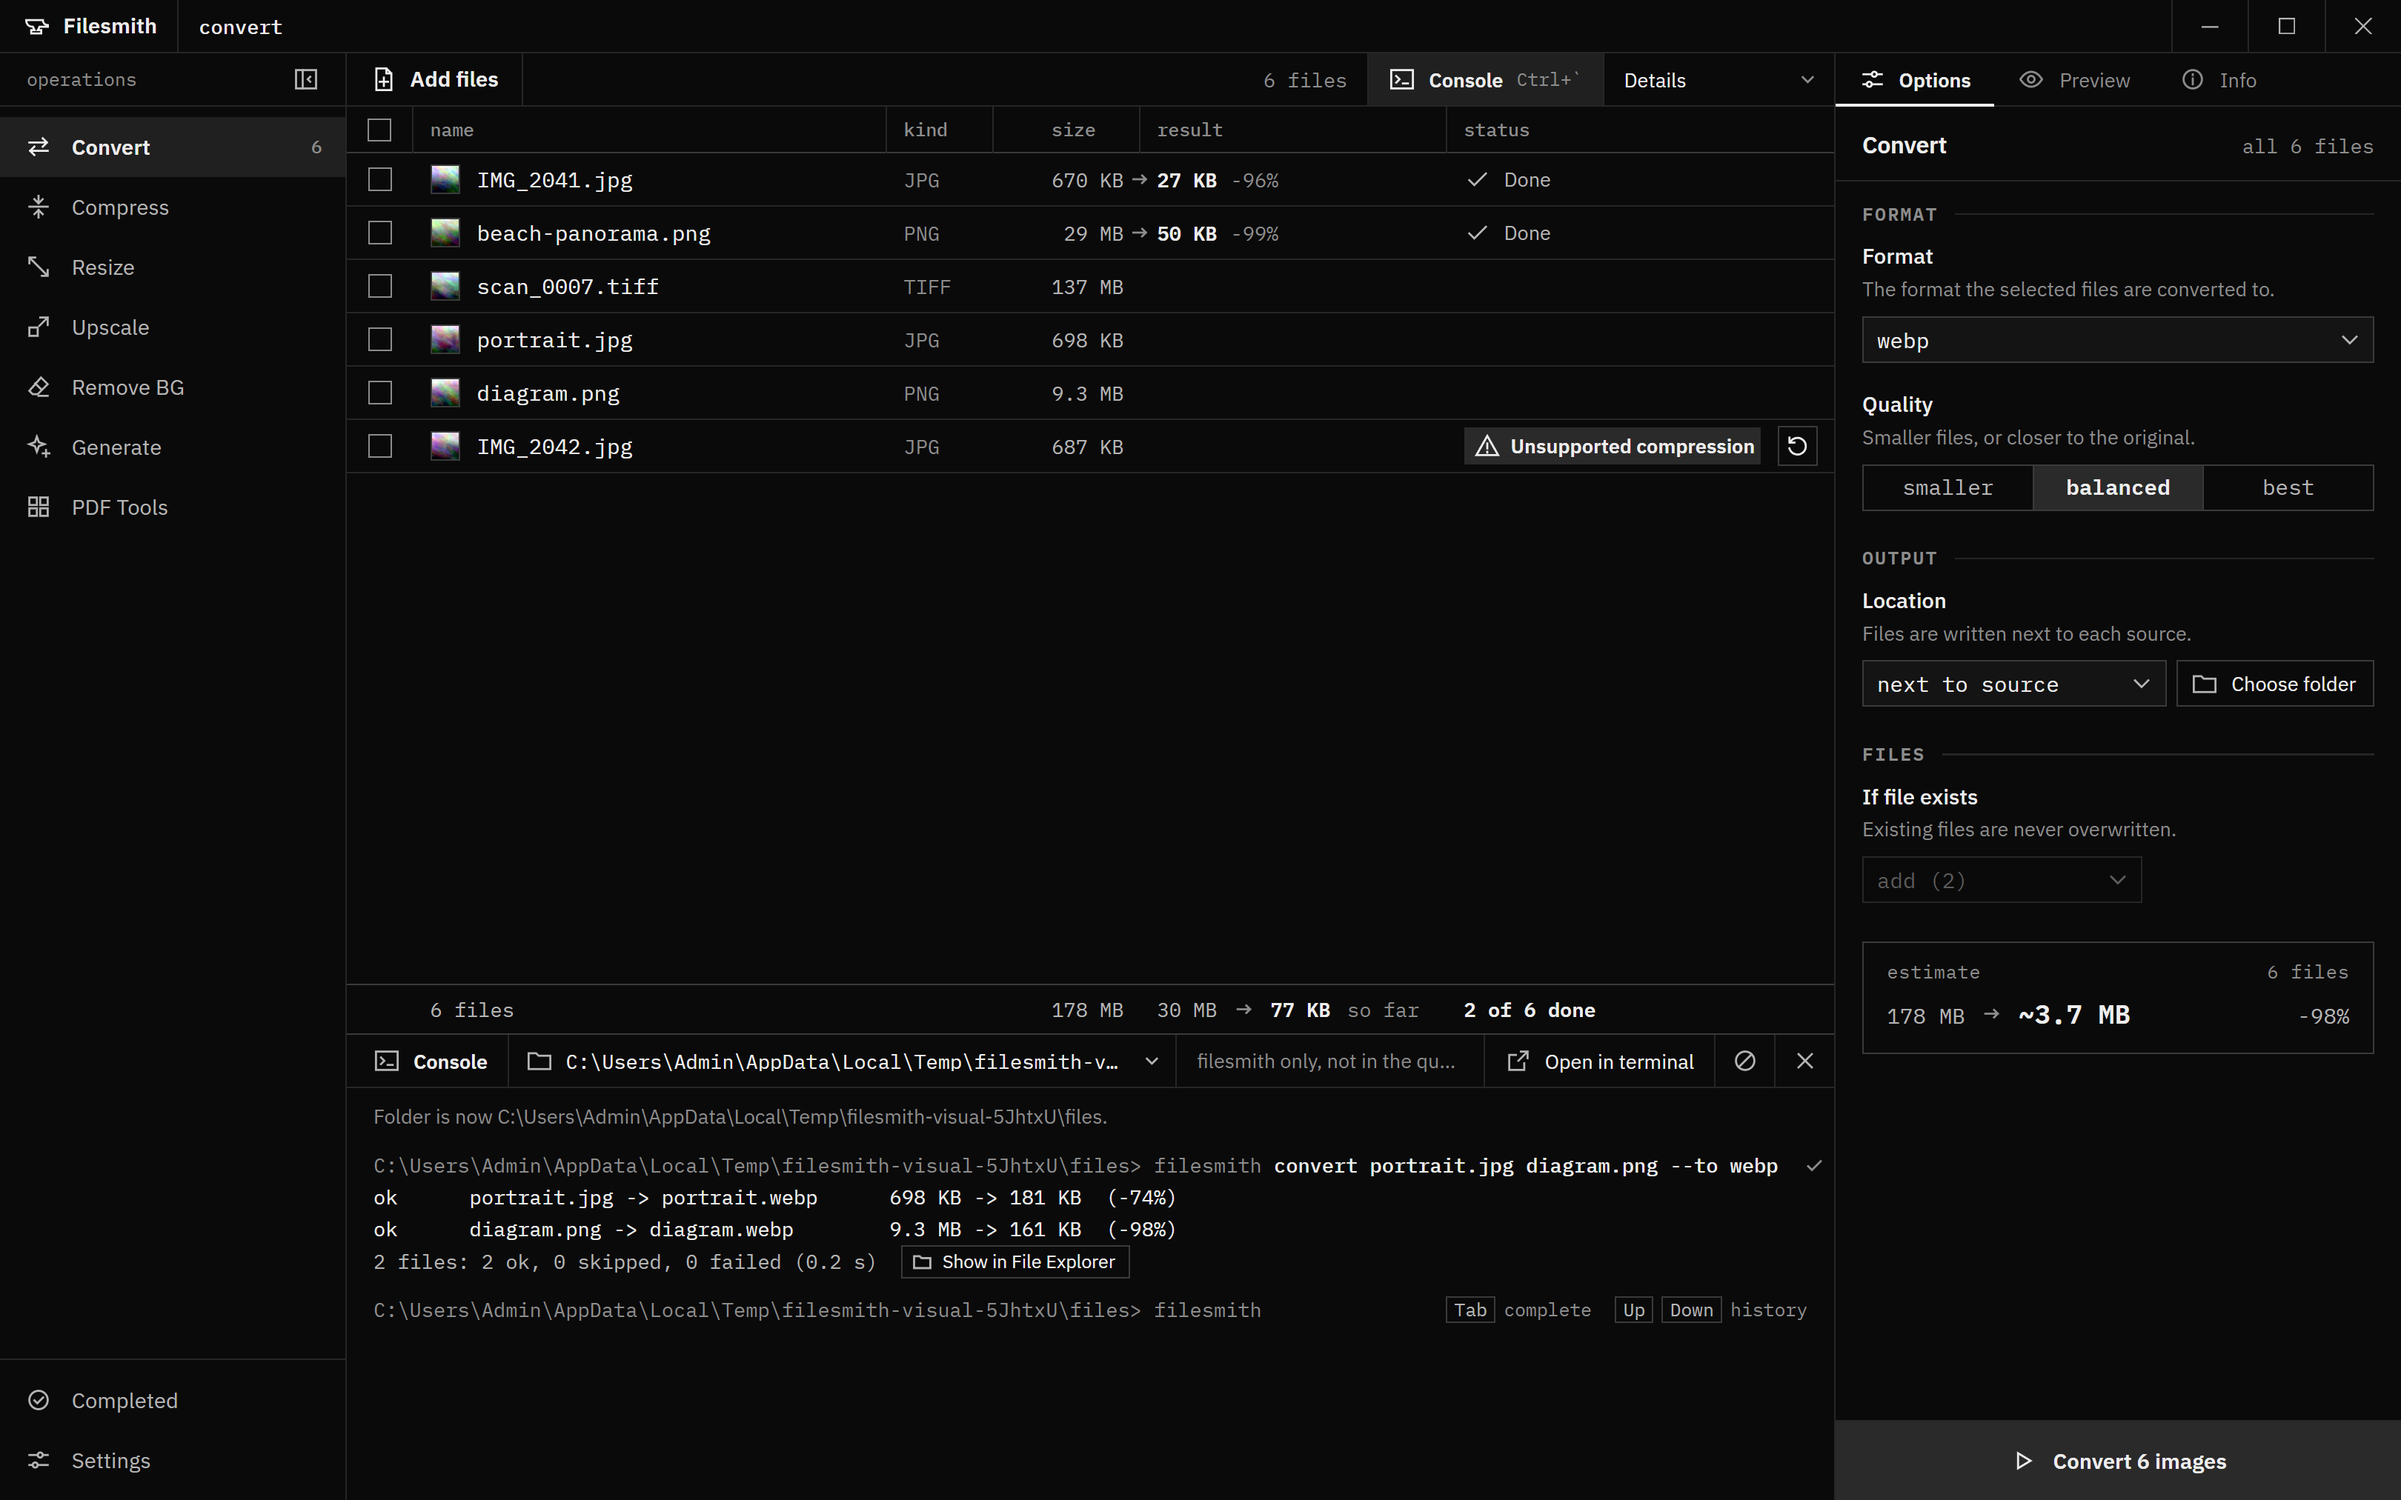
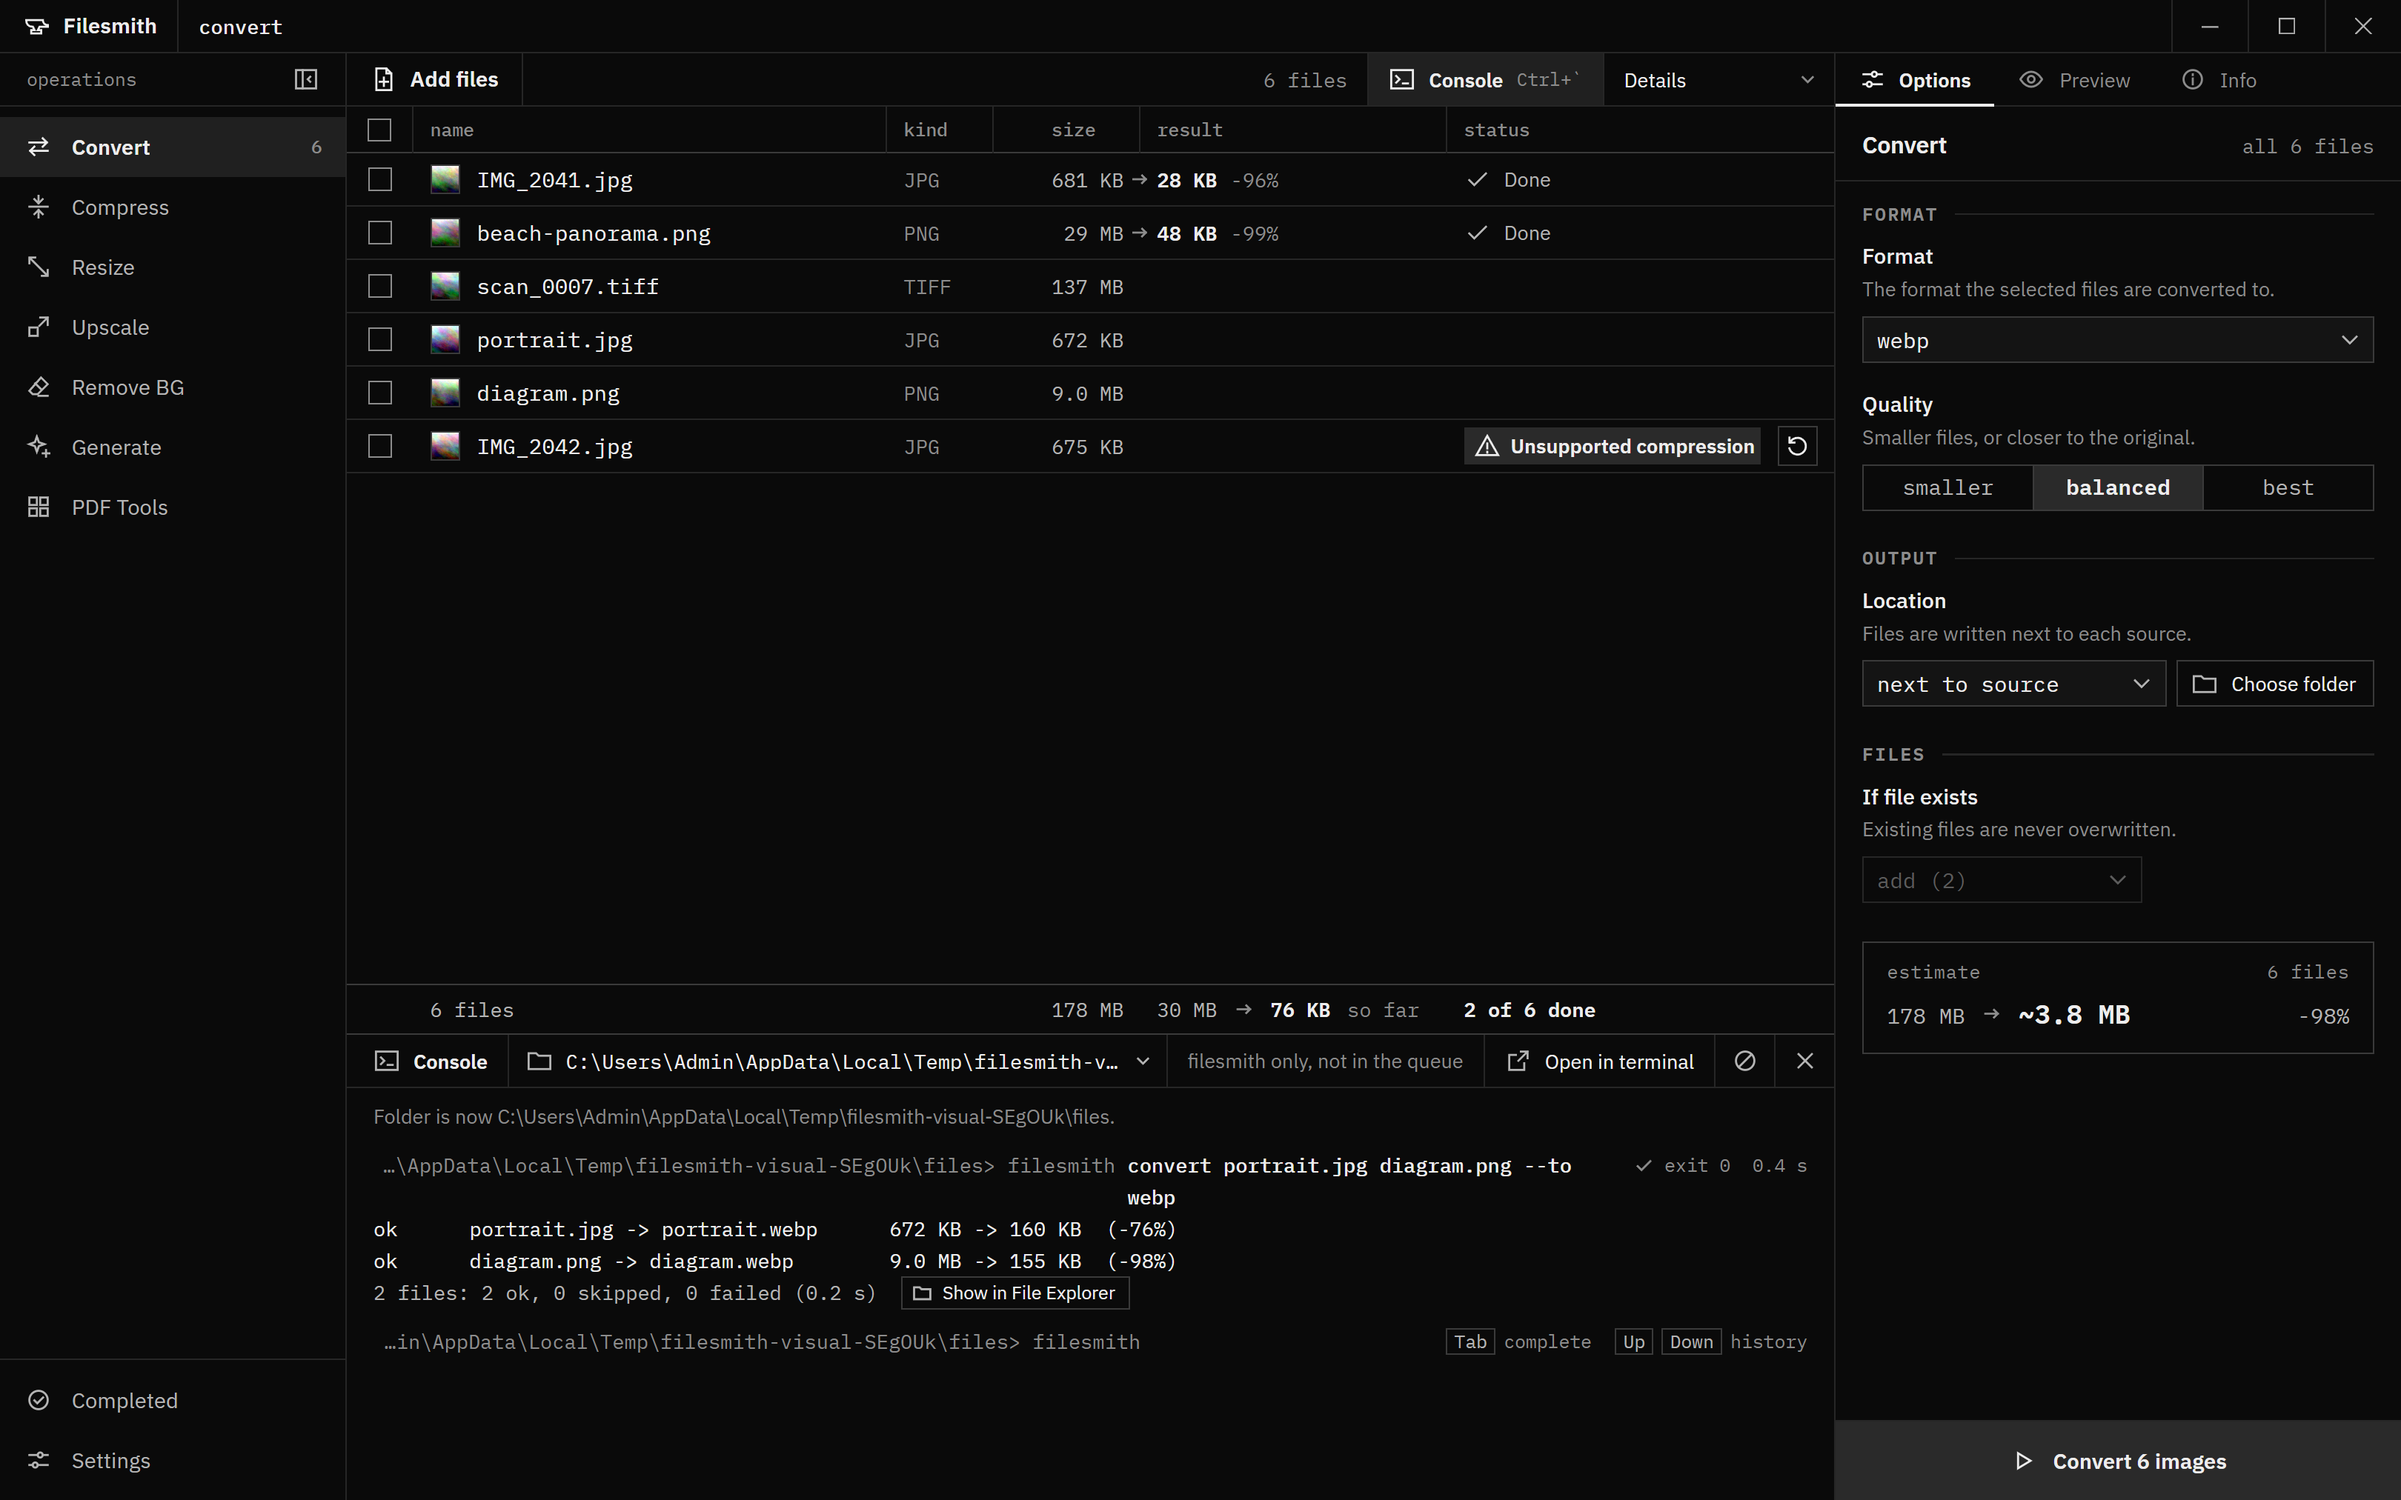
fix(console): the echo line keeps its status inside the panel
The echo line's folder is clipped at its start like the prompt's, a long
command wraps and the exit or running status never leaves the panel. Long
output lines wrap too. The running footer keeps the Tab and Up/Down hints,
and the head folder gives way before the "filesmith only" note, as in the
running mockup. The space after the prompt's ">" is no longer dropped.
e2e: a run from a long folder keeps its status inside the panel; the
running footer shows the key hints and the head note reads in full.

Refs #39

diff --git a/e2e/console.spec.ts b/e2e/console.spec.ts
@@ -179,6 +179,16 @@ test('Stop cancels a running convert with exit 130', async () => {
   await type('convert b*.png --to avif --quality best')
   const stop = panel().getByRole('button', { name: /^Stop/ })
   await expect(stop).toBeVisible()
+  // The running footer keeps its key hints and the head note reads in full (mockup 01 running).
+  await expect(panel().locator('.pline .keys')).toBeVisible()
+  const note = panel().locator('.chead .note')
+  const fits = await note.evaluate((el) => {
+    const r = document.createRange()
+    r.selectNodeContents(el)
+    const pad = parseFloat(getComputedStyle(el).paddingLeft) * 2
+    return r.getBoundingClientRect().width <= el.getBoundingClientRect().width - pad + 0.01
+  })
+  expect(fits).toBe(true)
   await stop.click()
   await expect(panel().getByText('exit 130', { exact: false })).toBeVisible({ timeout: 15_000 })
   await expect(stop).toBeHidden()
@@ -198,6 +208,21 @@ test('a long folder never pushes the prompt out of the panel', async () => {
   const box = (await panel().boundingBox())!
   expect(pin.width).toBeGreaterThanOrEqual(160)
   expect(pin.x + pin.width).toBeLessThanOrEqual(box.x + box.width)
+
+  // The echo line of a run from that folder keeps its exit status inside the panel
+  // (the path may pass MAX_PATH for the tools, so any exit code will do).
+  const long = `${'a-long-image-name-'.repeat(4)}.png`
+  copyFileSync(join(work, 'a.png'), join(deep, long))
+  await type(`convert ${long} --to webp --quality balanced`)
+  const echo = panel().locator('.ln.cmd').last()
+  await expect(echo.locator('.dec')).toContainText(/exit \d/, { timeout: 30_000 })
+  const dec = (await echo.locator('.dec').boundingBox())!
+  const body = (await panel().locator('.cbody').boundingBox())!
+  expect(dec.width).toBeGreaterThan(40)
+  expect(dec.x + dec.width).toBeLessThanOrEqual(body.x + body.width)
+  // The command wraps rather than leaving the line.
+  const tx = (await echo.locator('.tx').boundingBox())!
+  expect(tx.x + tx.width).toBeLessThanOrEqual(dec.x)
   await type(`cd ${work}`)
 })
 

diff --git a/src/renderer/src/theme/console.css b/src/renderer/src/theme/console.css
@@ -88,6 +88,7 @@
   overflow: hidden;
 }
 .chead .lbl {
+  flex: none;
   display: flex;
   align-items: center;
   gap: 8px;
@@ -118,6 +119,9 @@
 }
 .chead .note {
   align-self: center;
+  /* A token shrink factor: the folder gives way first, without leaking a
+     fraction of a pixel to the note (which would show its ellipsis). */
+  flex: 0 0.0001 auto;
   min-width: 0;
   padding: 0 12px;
   font-size: 12px;
@@ -204,7 +208,9 @@
 }
 .ln {
   padding: 0 16px;
-  white-space: pre;
+  /* Long lines wrap inside the panel instead of running off its edge. */
+  white-space: pre-wrap;
+  overflow-wrap: anywhere;
   min-height: 19px;
   display: flex;
   align-items: center;
@@ -236,7 +242,33 @@
   color: var(--fg1);
   font-weight: 500;
 }
+/* The echo line: the folder gives way first (clipped at its start, as on the
+   prompt), a long command wraps, and the status never leaves the panel. */
+.ln.cmd {
+  align-items: flex-start;
+}
+.ln.cmd .pr {
+  flex: 0 4 auto;
+  min-width: 0;
+  white-space: pre;
+  overflow: hidden;
+  text-overflow: ellipsis;
+  direction: rtl;
+  text-align: left;
+}
+.ln.cmd .fx {
+  flex: none;
+  white-space: pre;
+}
+.ln.cmd .tx {
+  flex: 0 1 auto;
+  min-width: 0;
+  white-space: pre-wrap;
+  overflow-wrap: anywhere;
+}
 .cmd .dec {
+  flex: none;
+  white-space: pre;
   margin-left: auto;
   display: inline-flex;
   align-items: center;
@@ -281,6 +313,7 @@
   gap: 6px;
 }
 .prog .bar {
+  flex: none;
   width: 120px;
   height: 2px;
   background: var(--track);
@@ -453,11 +486,12 @@
   }
 }
 
-/* A long folder stays on one line, cut at the end (not in the mockup, whose path is short). */
+/* A long folder stays on one line, cut at the end (not in the mockup, whose path is short).
+   It gives way before the head note, down to 120px, so the note reads in full as in the mockup. */
 .cwd {
-  min-width: 0;
+  min-width: 120px;
   max-width: 45%;
-  flex: none;
+  flex: 0 1000 auto;
   white-space: nowrap;
 }
 .cwd .p {

diff --git a/src/renderer/src/components/console/ConsolePanel.tsx b/src/renderer/src/components/console/ConsolePanel.tsx
@@ -458,9 +458,9 @@ export function ConsolePanel(p: {
           ) : (
             <>
               <span className="pr" title={cwd}>
-                <bdi>{`${cwd}> `}</bdi>
+                <bdi>{`${cwd}>`}</bdi>
               </span>
-              <span className="fx">filesmith </span>
+              <span className="fx">{' filesmith '}</span>
               <input
                 ref={pin}
                 className="pin"
@@ -479,17 +479,18 @@ export function ConsolePanel(p: {
                 onKeyDown={onPromptKey}
                 onBlur={() => setTimeout(() => setComp(null), 120)}
               />
-              <span className="keys">
-                <span>
-                  <kbd>Tab</kbd>complete
-                </span>
-                <span>
-                  <kbd>Up</kbd>
-                  <kbd>Down</kbd>history
-                </span>
-              </span>
             </>
           )}
+          {/* Shown while a run is busy too, as in the mockup's running state. */}
+          <span className="keys">
+            <span>
+              <kbd>Tab</kbd>complete
+            </span>
+            <span>
+              <kbd>Up</kbd>
+              <kbd>Down</kbd>history
+            </span>
+          </span>
         </div>
       </div>
       {comp && pr && (

diff --git a/src/renderer/src/components/console/ConsoleOutput.tsx b/src/renderer/src/components/console/ConsoleOutput.tsx
@@ -25,8 +25,10 @@ export function ConsoleOutput({
         ) : (
           <div key={b.id} className="blk">
             <div className="ln cmd">
-              <span className="pr">{`${b.cwd}> `}</span>
-              <span className="fx">filesmith </span>
+              <span className="pr" title={b.cwd}>
+                <bdi>{`${b.cwd}>`}</bdi>
+              </span>
+              <span className="fx">{' filesmith '}</span>
               <span className="tx">{b.line}</span>
               <span className={`dec${b.code ? ' bad' : ''}`}>
                 {b.status === 'refused'
